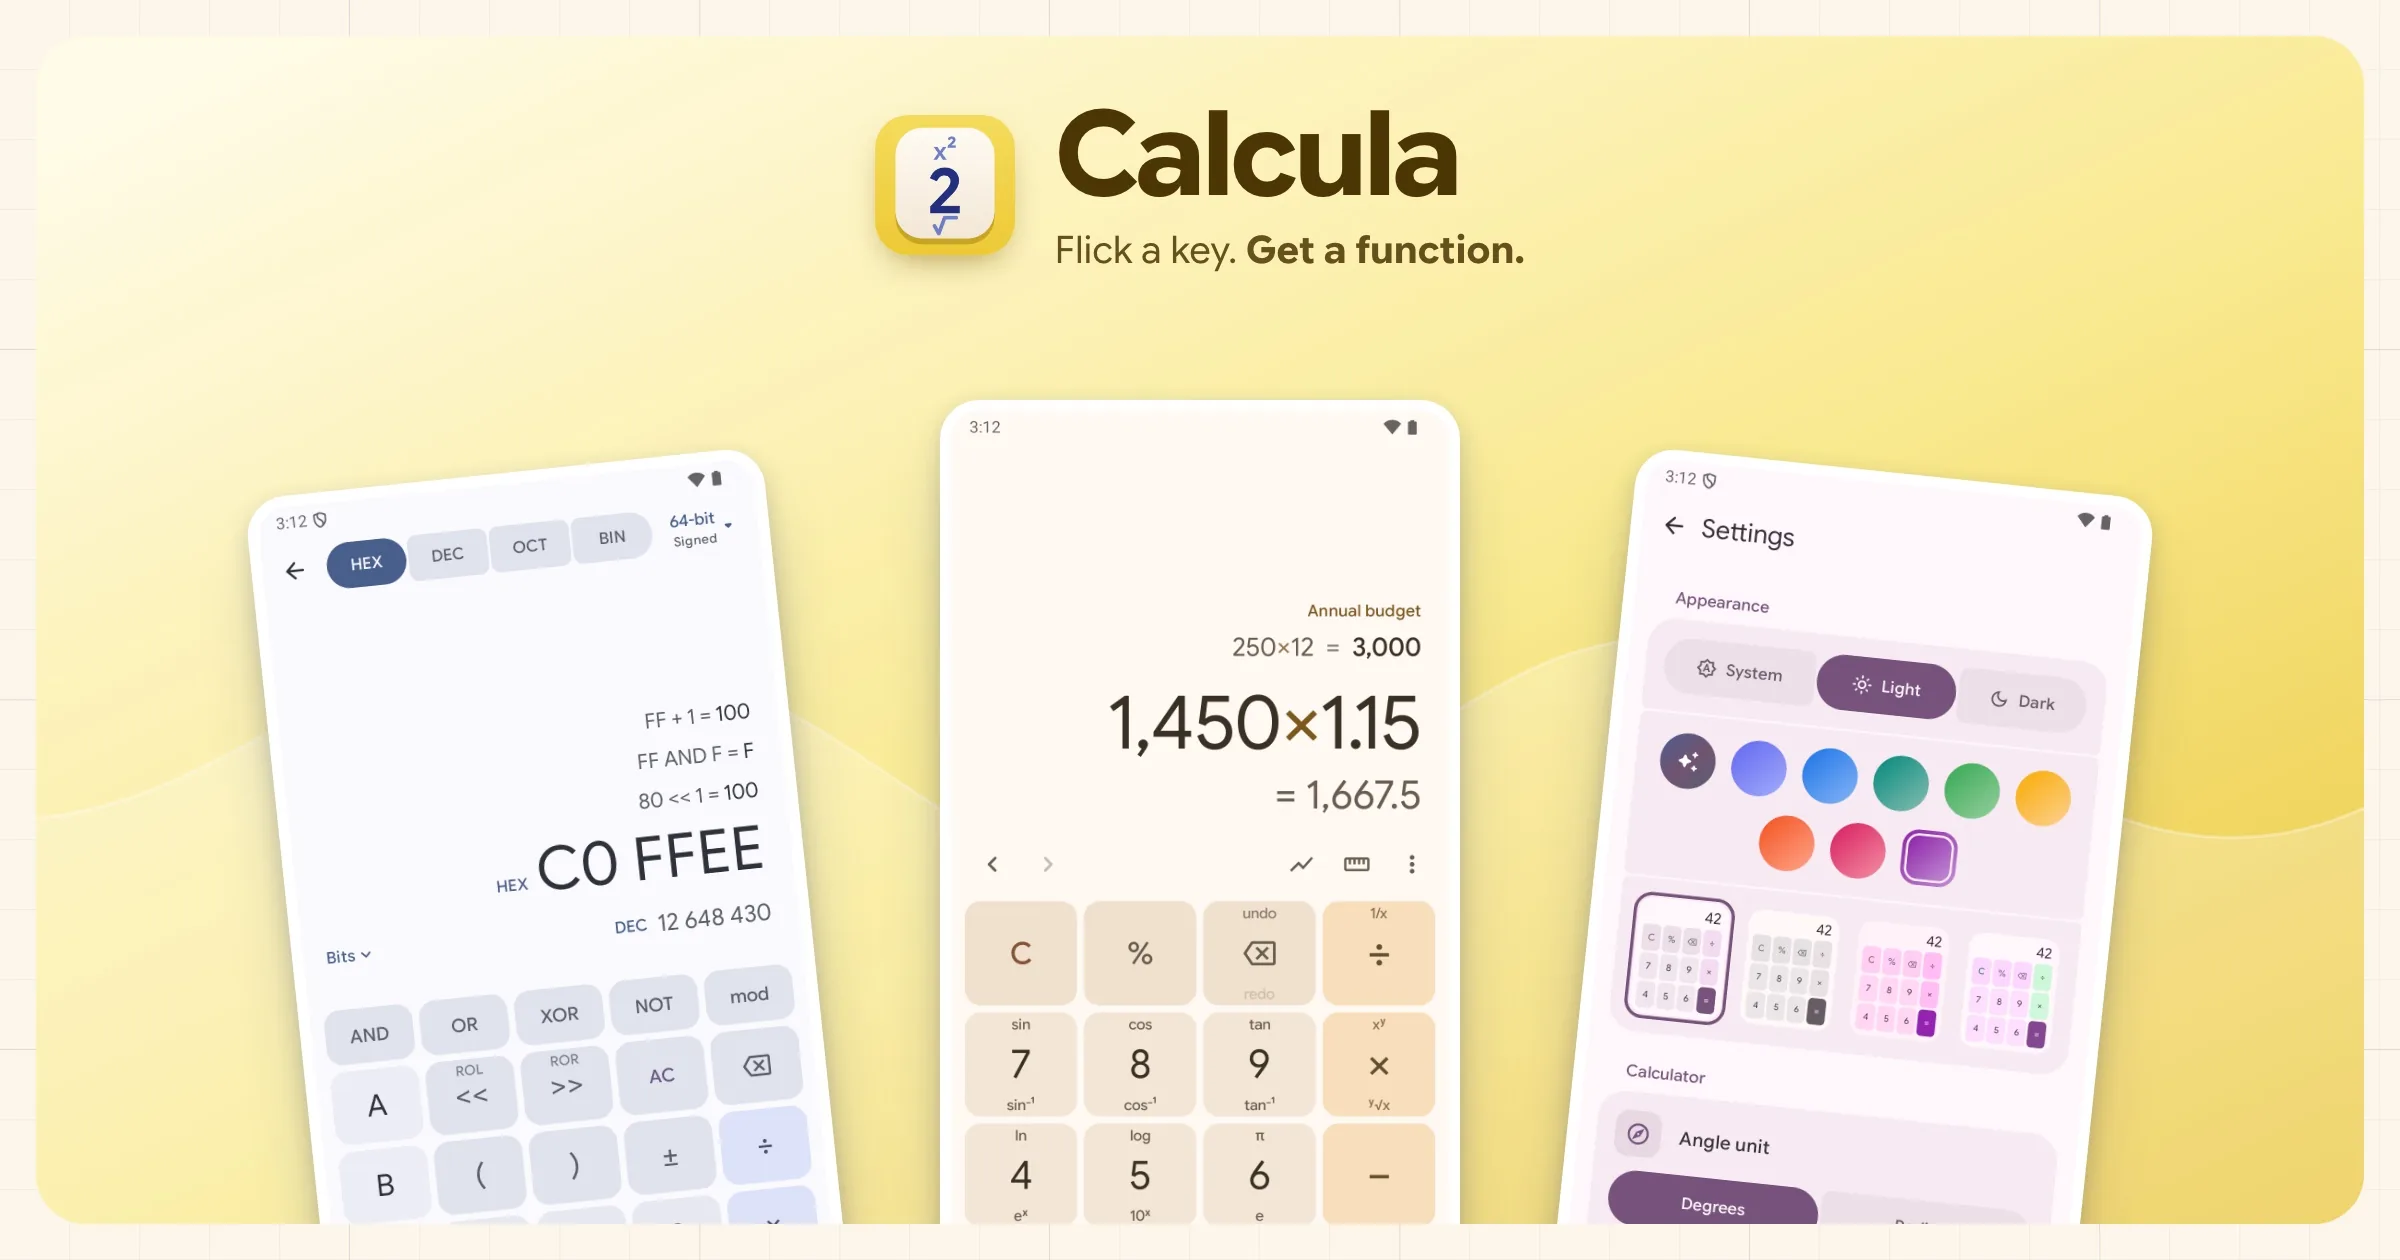
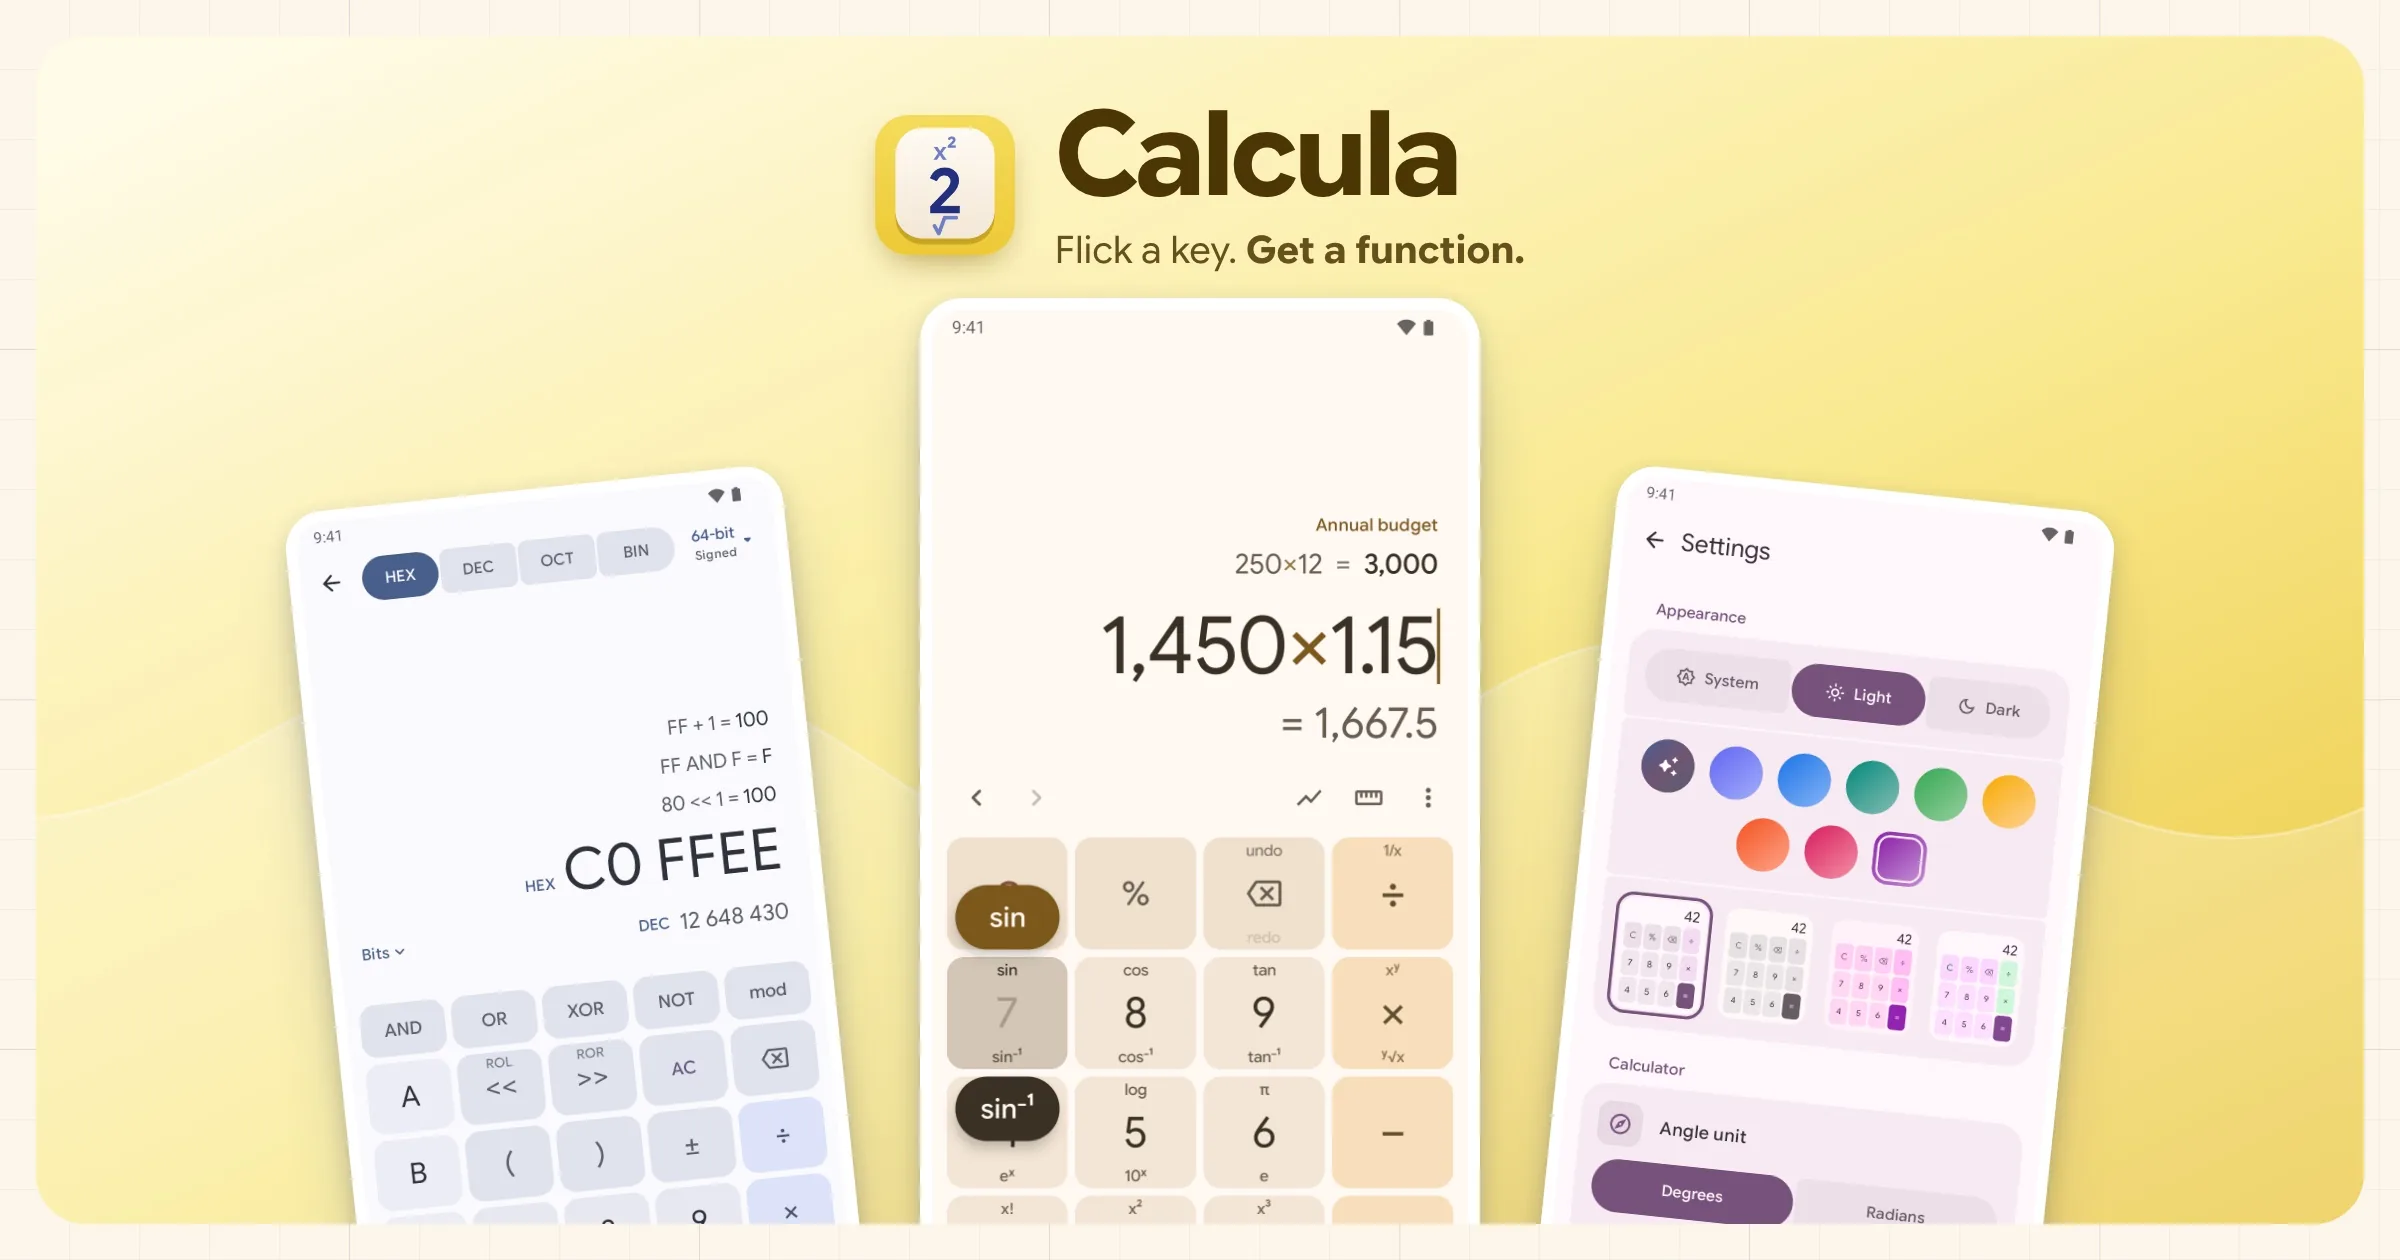
Calcula header: the real flick

Changed region(s): [[0.0938, 0.2167, 0.9062, 0.9905], [0.75, 0.9595, 0.8125, 0.9905]]

diff --git a/lib/apps.ts b/lib/apps.ts
@@ -115,7 +115,7 @@ export const apps: AppData[] = [
     images: [
       {
         file: "hero",
-        alt: "Programmer mode in hex, the keypad with a function on every key, and the color themes",
+        alt: "Programmer mode in hex, the 7 key mid-flick with sin chosen, and the color themes",
       },
       {
         file: "tools",
